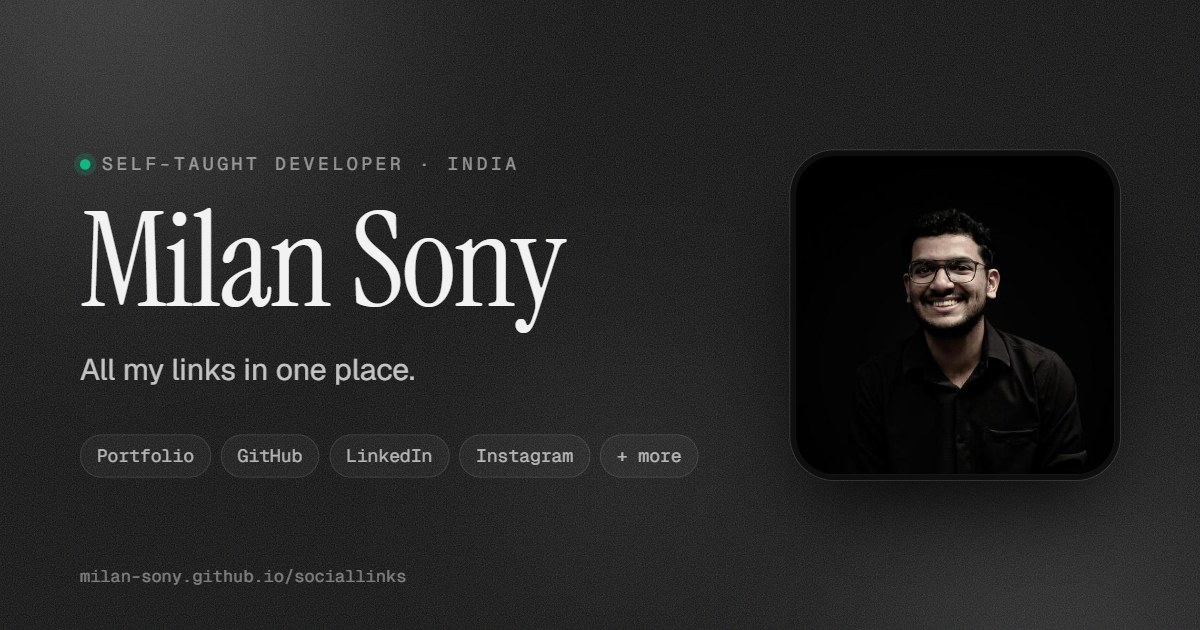
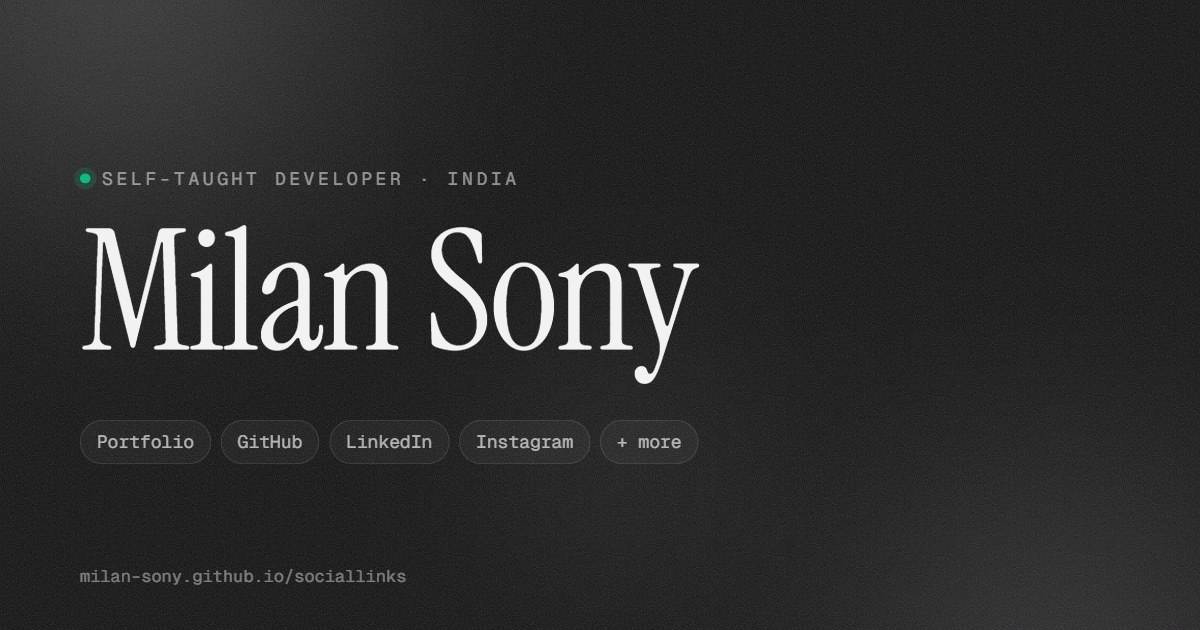
style: simplify link preview image
Remove the tagline and profile photo from the preview banner, enlarge
the name, and update the image alt text to match.

diff --git a/scripts/og/og-image.html b/scripts/og/og-image.html
@@ -34,7 +34,7 @@
       }
       .wrap {
         position: absolute; inset: 0; padding: 72px 80px;
-        display: grid; grid-template-columns: 1fr auto; align-items: center; gap: 64px;
+        display: flex; flex-direction: column; justify-content: center;
       }
       .label {
         display: inline-flex; align-items: center; gap: 12px;
@@ -46,19 +46,13 @@
       h1 {
         margin-top: 22px;
         font-family: 'Instrument Serif', serif; font-weight: 400;
-        font-size: 132px; line-height: 0.95; letter-spacing: -0.015em;
+        font-size: 168px; line-height: 0.95; letter-spacing: -0.015em;
       }
-      .tagline { margin-top: 26px; font-size: 30px; line-height: 1.35; color: oklch(0.96 0 0 / 0.78); max-width: 600px; }
       .links {
-        margin-top: 44px; display: flex; gap: 10px; flex-wrap: wrap;
+        margin-top: 48px; display: flex; gap: 10px; flex-wrap: wrap;
         font-family: 'Geist Mono', monospace; font-size: 18px; color: oklch(0.96 0 0 / 0.7);
       }
       .chip { padding: 9px 16px; border-radius: 999px; border: 1px solid oklch(1 0 0 / 0.12); background: oklch(1 0 0 / 0.04); }
-      .photo {
-        width: 330px; height: 330px; border-radius: 44px; object-fit: cover;
-        border: 6px solid oklch(0.165 0 0);
-        box-shadow: 0 0 0 1px oklch(1 0 0 / 0.12), 0 40px 80px -20px rgb(0 0 0 / 0.8);
-      }
       .url {
         position: absolute; left: 80px; bottom: 44px;
         font-family: 'Geist Mono', monospace; font-size: 17px; color: oklch(0.96 0 0 / 0.45);
@@ -75,7 +69,6 @@
       <div>
         <span class="label"><span class="dot"></span>Self-taught developer · India</span>
         <h1>Milan Sony</h1>
-        <p class="tagline">All my links in one place.</p>
         <div class="links">
           <span class="chip">Portfolio</span>
           <span class="chip">GitHub</span>
@@ -84,7 +77,6 @@
           <span class="chip">+ more</span>
         </div>
       </div>
-      <img class="photo" src="/profile.jpg" alt="" />
     </main>
 
     <span class="url">milan-sony.github.io/sociallinks</span>

diff --git a/index.html b/index.html
@@ -19,7 +19,7 @@
     <meta property="og:image:type" content="image/jpeg" />
     <meta property="og:image:width" content="1200" />
     <meta property="og:image:height" content="630" />
-    <meta property="og:image:alt" content="Milan Sony, self-taught developer from India. All my links in one place." />
+    <meta property="og:image:alt" content="Milan Sony, self-taught developer from India." />
     <meta property="og:locale" content="en_IN" />
     <meta property="profile:first_name" content="Milan" />
     <meta property="profile:last_name" content="Sony" />
@@ -31,7 +31,7 @@
     <meta name="twitter:title" content="Milan Sony · Links" />
     <meta name="twitter:description" content="Self-taught developer from India. Portfolio, GitHub, LinkedIn, Instagram and more, all in one place." />
     <meta name="twitter:image" content="https://milan-sony.github.io/sociallinks/og-image.jpg" />
-    <meta name="twitter:image:alt" content="Milan Sony, self-taught developer from India. All my links in one place." />
+    <meta name="twitter:image:alt" content="Milan Sony, self-taught developer from India." />
     <meta name="theme-color" content="#ffffff" media="(prefers-color-scheme: light)" />
     <meta name="theme-color" content="#0a0a0a" media="(prefers-color-scheme: dark)" />
     <link rel="icon" type="image/png" href="/favicon.png" />
